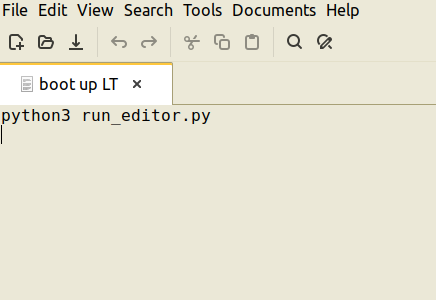
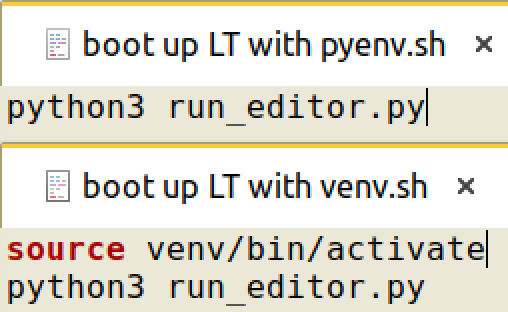
Updated docs to cover new/additional info
CHANGES
- The Linux setup guide is now fully up to date with new images.
- Extra context has been added to the Linux setup guide, to explain what the end user is doing/installing. (I know this is ultimately not necessary, but I've had multiple people comment that they really appreciate this context.)
- The readme template has been updated to reflect recent developments and features. These edits have also been copied to their respective docs pages.
- A lot of Linux setup instructions from the readme have been removed, instead linking to the actual documentation. There was little to no reason to completely rewrite the guide when it already exists within the docs.
- The web-building doc has been moved to the 'getting-started' tab, below the executable-building doc. This is a more logical place for it to live (in my opinion, feel free to ignore).

WHAT IS STILL MISSING?
- Exact hotkey for speedup on controllers (can this be remapped?)
- Speedup speed settings (config controlled or available in-game?)
- Potential issues with the AVX2 error I posted in the engine_dev chat
- A proper MacOS install guide in the getting-started section, but I am not capable of writing a proper one due to not using Mac-OS

diff --git a/docs/source/getting_started/Installation-Linux.md b/docs/source/getting_started/Installation-Linux.md
@@ -23,17 +23,19 @@ Once you've decided where you want the lt-maker repository to live, click on 'Cl
 
 ![GithubDesktop](images/GithubDesktop_CloningFinish.png)
 
-From this screen, you can now also update the engine by clicking the 'Fetch origin' button.
+From this screen, you can now also update the engine by clicking the 'Fetch origin' button, and then pulling the changes. You can also view the changelog by selecting the 'history' tab.
 
->The program may ask for you to sync a github/gitlab account, but this isn't necessary for the use of the software.
+>No github/gitlab account is necessary for the use of this program.
 
 >Make sure the 'Current branch' button always shows the branch name 'master'. Otherwise, you may be running an outdated version that someone used to solve a specific problem or run their own customized lt-maker engine.
 
 ## Installing and setting up the correct Python version for lt-maker
 
-<span style="color: red; font-weight: bold;">LT-maker requires a Python 3.12 environment to work optimally.</span> Most Linux distributions already come with a Python version. Type `python3 --version` in a terminal: if it returns `Python 3.12` and any last number (Linux Mint 22.3 comes with Python 3.12.3, for example), your system's Python will do: skip to [Using your system's Python](#using-your-systems-python).
+><span style="color: red; font-weight: bold;">Important:</span> Certain versions of Linux (primarily Debian, Ubuntu and Ubuntu-based distributions) require that you use `python3` instead of `python` when typing python-based commands. For ease of use, this guide will start all python commands with `python3` going forward. Should this cause errors, you can simply use `python` and mirror the exact commands from there.
 
-Otherwise you need a second Python beside your system's, as you cannot simply replace the one it came with. For this, we can use a tool called 'pyenv'.
+<span style="color: red; font-weight: bold;">LT-maker requires a Python 3.12 environment to work optimally.</span> Most Linux distributions already come with a Python version. Type `python3 --version` in a terminal: if it returns `Python 3.12.##` (Linux Mint 22.3 comes with Python 3.12.3, for example), your system's Python will do: skip to [Using your system's Python](#using-your-systems-python).
+
+Otherwise, you'll need a second Python version. However, you cannot simply replace the one your distribution came with, and running two versions of python unchecked is bound to cause a huge number of issues. In order to solve this problem, we can use a tool called 'pyenv'.
 
 https://github.com/pyenv/pyenv
 
@@ -53,7 +55,7 @@ To make sure your main system is unaffected, open a normal terminal window and t
 
 ![PyTerminalVisual](images/PyTerminalVisual.png)
 
-Now skip to [Installing Pip](#installing-pip).
+You can skip the next paragraph and continue with [Installing Pip](#installing-pip).
 
 ## Using your system's Python
 
@@ -64,7 +66,7 @@ python3 -m venv venv
 source venv/bin/activate
 ```
 
-On Debian, Ubuntu and Mint, the first command may ask you to install the `python3-venv` package first (`sudo apt install python3-venv`). Type `source venv/bin/activate` again in each new terminal window before installing packages or starting LT-maker. In that window, `python3` is then the virtual environment's Python.
+On Debian, Ubuntu or other Ubuntu-based distributions, the first command may ask you to install the `python3-venv` package first (`sudo apt install python3-venv`). Type `source venv/bin/activate` again in each new terminal window before installing packages or starting LT-maker. In that window, `python3` is then the virtual environment's Python, instead of being system-wide. If you did this correctly, every command entry line should start with `(venv)`.
 
 ## Installing Pip
 
@@ -72,11 +74,9 @@ Pip is the Python package manager, and is a requirement for installing the engin
 
 https://pip.pypa.io/en/stable/installation/#
 
->Note that some distributions require you to substitute instructions starting with `python` to `python3` while installing pip.
-
 ## Installing engine dependencies
 
-Next, you need to install some extra dependencies. These can be found in the `requirements_editor.txt` To install them, open a terminal window <span style="color: red; font-weight: bold;">inside of the lt-maker folder</span> and type the following commands:
+Next, you need to install some extra dependencies. These can be found in the `requirements_editor.txt` To install them, open a terminal window <span style="color: red; font-weight: bold;">inside of the lt-maker folder (Don't forget to use `source venv/bin/activate` if you used venv to set the python environment!)</span> and type the following commands:
 
 pygame-ce
 
@@ -91,6 +91,7 @@ python3 -m pip install pyinstaller==6.2.0
 ```
 
 PyQt5
+
 ```
 python3 -m pip install PyQt5==5.15.10
 ```
@@ -101,18 +102,32 @@ If you are using Ubuntu or an Ubuntu-based distribution, and the above PyQt5 com
 sudo apt-get install python3-pyqt5
 ```
 
+It is important to install these dependencies in the virtual environment, because system updates may be able to update them otherwise. If done correctly, they will only update when you specify they should be. The [Lex Talionis Discord Server](https://discord.gg/dC6VWGh4sw) or a terminal error will notify you when these updates are necessary.
+
 ## Launching the engine/editor
 
-Open a terminal window inside of the `lt-maker` folder. Here, type `python3 run_engine.py`. The engine main screen should pop up and you should be able to play the prologue and first five chapters of Sacred Stones.
+Open a terminal window inside of the `lt-maker` folder. Here, type `python3 run_engine.py` (Make sure your venv environment is active if you're using it!). The engine main screen should pop up and you should be able to play the prologue and first five chapters of Sacred Stones.
 
 ![TitleScreen](images/TitleScreen.png)
 
-If that was successful, close the engine. Open a terminal window inside of the `lt-maker` folder and type `python3 run_editor.py`. The editor should pop up and you should be able to begin making your own fangame.
+If that was successful, close the engine. Open a terminal window inside of the `lt-maker` folder and type 
+`python3 run_editor.py` (Make sure your venv environment is active if you're using it!). The editor should pop up and you should be able to begin making your own fangame.
 
 ![EditorScreen](images/EditorScreen.png)
 
-If you wish, you can make a simple boot script by creating a .txt file in the `lt-maker` folder, typing `python3 run_editor.py` and saving it. Give it a creative name so you can find it easily later. Then, right click on the .txt file, and allow it to be executed as a program.
+If you wish, you can make a simple boot script by creating a .sh file in the `lt-maker` folder, so you don't need to manually boot it from the terminal. Depending on your environment setup, this script will differ ever so slightly.
 
->If your file manager asks, it is recommended to run the script in the terminal, as the terminal functions as an output log for the editor. That makes troubleshooting much easier if something goes wrong!
+If you used `pyenv`, type
+```
+python3 run_editor.py
+```
+
+If you used `venv`, type
+```
+source venv/bin/activate
+python3 run_editor.py
+```
+
+Save your newly created boot script. Give it a creative name, and place it inside of the `lt-maker` folder. Then, right click on the .sh file, go to its properties, and allow it to be executed as a program. If your file manager asks, it is recommended to run the script in the terminal, as the terminal functions as an output log for the editor. That makes troubleshooting much easier if something goes wrong, like an outdated dependency or a crash!
 
 ![BootScript](images/BootScript.png)

diff --git a/docs/source/guides/setup_tutorials/How-To-Play-LT-Games.md b/docs/source/guides/setup_tutorials/How-To-Play-LT-Games.md
@@ -17,6 +17,9 @@ No terminal required. Recommended method.
 3. In the lower left corner of your Steam library, click the "Add a Game" button, and select "Add a non-Steam game...".
 4. Click "Browse...", navigate to the folder where you stored the game, and select "GAMENAME.exe". Then, click "Add selected programs" and the game now shows up in your Steam library.
 
+Normally, Steam will automatically recognize the .exe file and force the game to run with Proton. If it does not:
+5. Right-click on the game in your library list and select "Properties...". Navigate to the "Compatibility" tab and select "Force the use of a specific Steam Play compatibility tool". Proton 10.0-4 is known to be stable. Newer versions may offer performance benefits, but may also introduce unknown issues.
+
 ## Linux - Wine 
 Requires terminal.
 
@@ -26,33 +29,21 @@ https://www.winehq.org/
 It is recommended to install Wine manually, as the package distributed by many package managers are outdated. Version 11.0 is known to run LT games in a stable manner. Older versions are untested.
 3. Open "GAMENAME.exe" with Wine.
 
+NOTE: Wine 11.0 can cause stuttering if you manually resize/maximize the game window. This can be avoided by simply using the in-game screen size settings.
+
+## ITCH.IO
+LT-games running in a web browser should run natively on all systems. No additional setup is required, though do note the first boot may take 10-20 seconds, due to the browser installing Python.
+
 ## Linux - Build from Source
-NOTE: Most creators will ship the blank .exe engine with their game files attached. If this is the case, you can build the game from source. However, if the creator has included engine hacking in their project, this method WILL NOT WORK. If you are unsure, please contact the developer(s) of the LT game you want to play. If the developer(s) have a native version for linux available for download, you can skip step 3.
+NOTE: Most creators will ship the blank .exe engine with their game files attached. If this is the case, you can build the game from source. However, if the creator has included engine hacking in their project, this method WILL NOT WORK. If you are unsure, please contact the developer(s) of the LT game you want to play.
 
-1. Install the following programs (preferred versions if possible):
-```
-python==3.12
-python3pip
-pygame-ce==2.5.7
-pyinstaller==6.2.0
-PyQt5==5.15.10
-mypy==1.8.0
-mypy-extensions==1.0.0
-```
-* LT is tested only on Python 3.12, and is potentially unstable or will not boot on other versions. Many current Linux distributions already come with Python 3.12 (type "python3 --version" to see yours); others can install it beside their own with pyenv (https://github.com/pyenv/pyenv). With your system's own Python, install the programs above in a virtual environment inside the lt-maker folder ("python3 -m venv venv", then "source venv/bin/activate" in each new terminal), as most distributions refuse pip installs into the system's Python.
-* Some Linux distributions (mainly Ubuntu and Ubuntu-based distributions) may have trouble installing PyQt5. In that case, try: "sudo apt-get install python3-pyqt5".
+1. Refer to the [Linux installation guide on setting up the enviroment](https://lt-maker.readthedocs.io/en/latest/source/getting_started/Installation-Linux.html)
 
-2. Clone the following repository to your prefered storage location;
-```
-https://gitlab.com/rainlash/lt-maker.git
-```
-* If the creator has their own repository set up, clone that instead.
+>If the developer(s) have made their game available in a repository, you should clone that repository instead of the master branch that is listed in the installation guide.
 
-3. Grab the folder named "GAMETITLE.ltproj" from the windows version and put it inside the "lt-maker" folder. Delete the "default.ltproj" folder.
-
-4. Open a terminal window in the folder and type "python3 run_engine.py". The engine should now boot up with the desired game. You can also create a script to perform this command. It is recommended to run this script in the terminal, as the game uses the terminal as a log.
-
-* If the desired game does not boot up, change the command to "python3 run_editor.py", click the "Open other" button and select the "GAMENAME.ltproj" folder. Once the editor opens, click the play icon in the icon bar and then select the "Test Full Game..." option. From there, you can play as normal.
+2. If the developer(s) have only published the .exe engine, without engine hacks:
+Grab the folder named "GAMETITLE.ltproj" from the .exe version and put it inside the "lt-maker" folder. Delete the "default.ltproj" folder. When next launching the engine, the desired game should boot up.*
+>*If the desired game does not boot up, launch the editor instead of the engine with "python3 run_editor.py", click the "Open other" button and select the "GAMENAME.ltproj" folder. Once the editor opens, click the play icon in the icon bar and then select the "Test Full Game..." option. From there, you can play as normal.
 
 ## MacOS - Wine
 NOTE: Most creators will ship the blank .exe engine with their game files attached. For maximum stability, the MacOS version needs the python version of the engine to run in Wine. If you are unsure, please contact the developer(s) of the LT game you want to play.

diff --git a/docs/source/guides/setup_tutorials/Helpful-Information-For-Players.md b/docs/source/guides/setup_tutorials/Helpful-Information-For-Players.md
@@ -1,6 +1,6 @@
 # Helpful Information For Players
 
-_last updated 2026-04-01_
+_last updated 2026-10-19_
 
 This guide includes information that may be helpful to new players of LT-Maker games.
 
@@ -15,14 +15,17 @@ AUX        | A        |       | Back            | Share
 Move       | Arrows   | Hover | Left Stick      | Left Stick
 Start      | S        |       | Start / Y       | Options / Triangle
 Screenshot | ` / F12  |       |                 |
+Speedup    | Tab      |       |                 |
 ```
 * The AUX key is used to focus the cursor on your units when on the map and to toggle the Growth Rate display on the Unit Info Menu.
 
-* Screenshots are saved as .bmp files if the \` key was pressed or .png files if F12 was pressed. Screenshots are saved within the game folder.
+* Screenshots are saved as .bmp files if the ` key was pressed or .png files if F12 was pressed. Screenshots are saved within the game folder.
 
-* You can soft reset by holding Select, Back, and Start.
+* To soft reset, press Select, Back, and Start at the same time.
 
-* You can rebind which key on your keyboard does what in the Options > Controls menu in-game. Controller button remapping has not been implemented yet, although you can use an input remapper to bind controller input to keyboard keys as a workaround.
+* Keys can be rebound in the Options > Controls menu in-game. Controller button remapping is also supported in that same window.
+
+* Mouse controls can be enabled/disabled in the settings menu.
 
 
 ## Known Common Issues
@@ -31,8 +34,4 @@ Screenshot | ` / F12  |       |                 |
 
 * The EXP gain SFX may sound weird on some computers. (The pitch is sound card dependent.) To adjust this, go into saves/config.ini. Change sound_buffer_size to a small even number until the SFX sounds right. Make sure to close the game while editing these settings, and to save the file after editing it.
 
-## Miscellaneous Tips
-* You can change the screen size in-game through: Extras > Options > Config > Screen Size
-    * The full-screen option is wonky and not recommended.
-
-* You can toggle mouse controls in-game through: Extras > Options > Config > Mouse
+* The fullscreen option is not recommended for use. Maximizing the window instead is recommended.

diff --git a/docs/source/guides/setup_tutorials/index.rst b/docs/source/guides/setup_tutorials/index.rst
@@ -14,4 +14,3 @@ These are guides on how to update specific assets/files in your game folder for 
    How-To-Play-LT-Games
    Helpful-Information-For-Players
    Carry-Over-Save-Files
-   Build-For-Web

diff --git a/docs/source/getting_started/index.rst b/docs/source/getting_started/index.rst
@@ -12,3 +12,4 @@ lt-maker is a thing.
     Installation-Linux
     making-a-basic-map
     Build-Engine
+    Build-For-Web
